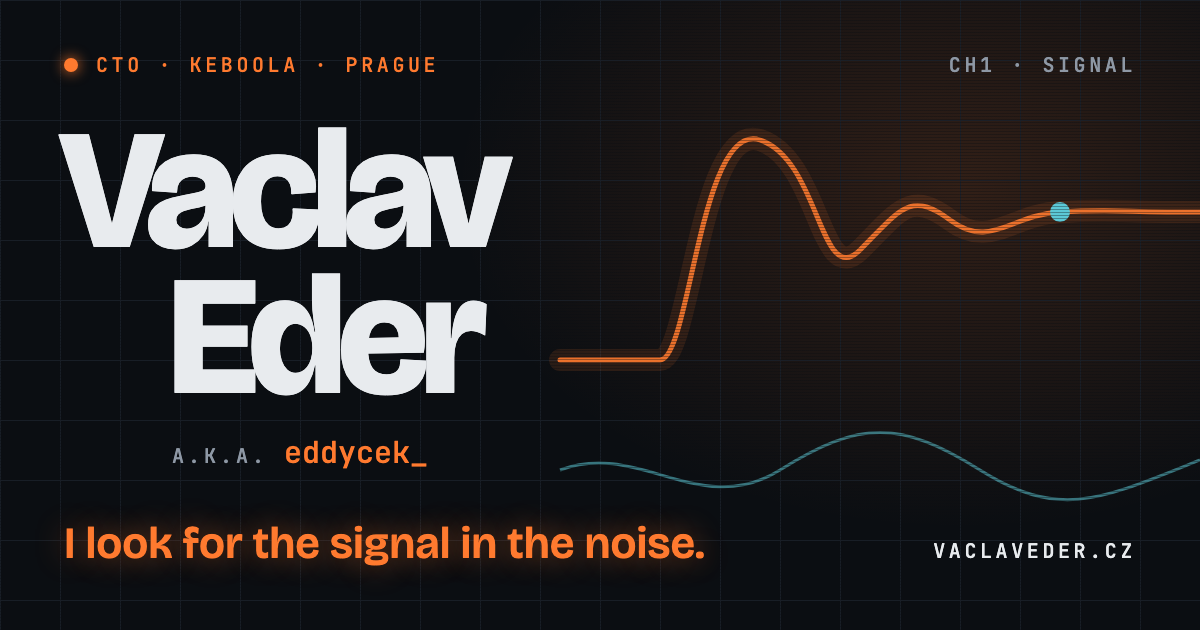
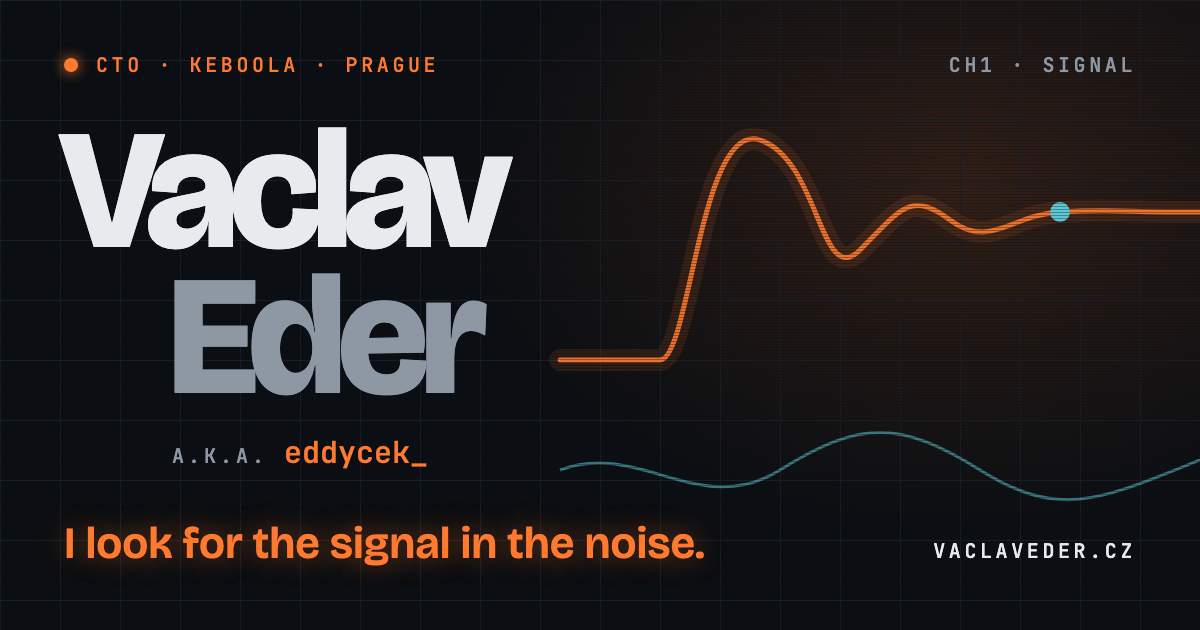
Longer FAILSAFE, Links label, poem always opens at top, readable personal panels, muted Eder, agent footer

Changed region(s): [[0.1233, 0.4222, 0.4317, 0.6333]]

diff --git a/src/scripts/signal/radio.ts b/src/scripts/signal/radio.ts
@@ -35,11 +35,12 @@ function say(text: string, delayMs: number): void {
   window.setTimeout(() => {
     const u = new SpeechSynthesisUtterance(text);
     const voices = synth.getVoices();
-    u.voice = voices.find((v) => /en[-_](US|GB)/i.test(v.lang) && /female|samantha|karen|serena|google/i.test(v.name))
+    u.voice = voices.find((v) => /en[-_]GB/i.test(v.lang) && /female|serena|kate|martha|stephanie|google uk english female/i.test(v.name))
+      ?? voices.find((v) => /en[-_](US|GB|AU)/i.test(v.lang) && /female|samantha|karen|serena|google/i.test(v.name))
       ?? voices.find((v) => /^en/i.test(v.lang)) ?? null;
     u.lang = u.voice?.lang ?? 'en-US';
-    u.rate = 1.02;
-    u.pitch = 1;
+    u.rate = 0.95;
+    u.pitch = 1.05;
     u.volume = 0.9;
     synth.cancel();
     synth.speak(u);

diff --git a/src/scripts/signal/scope.ts b/src/scripts/signal/scope.ts
@@ -53,7 +53,7 @@ export function mountScope(canvas: HTMLCanvasElement): () => void {
   let dmg = 0; // 0..1, lost signal integrity
   let failsafe = 0; // seconds left in FAILSAFE
   let failCount = 0;
-  const FAIL_T = 3.6;
+  const FAIL_T = 6.5;
   const FAIL_LINES = [
     'cut the wires, no fucking choice.',
     'no escape, just broken glass.',
@@ -144,7 +144,7 @@ export function mountScope(canvas: HTMLCanvasElement): () => void {
       failsafe = FAIL_T;
       failCount++;
       canvas.parentElement?.classList.add('is-failsafe');
-      window.dispatchEvent(new CustomEvent('signal:failsafe', { detail: 1500 }));
+      window.dispatchEvent(new CustomEvent('signal:failsafe', { detail: 2400 }));
       telemetryLost();
     }
     const px = e.clientX - r.left;

diff --git a/src/content/en.ts b/src/content/en.ts
@@ -261,6 +261,6 @@ export const content: SiteContent = {
     ],
   },
   footer: {
-    note: 'Built with love in Prague. No cookies, no tracking.',
+    note: 'Shipped with love from Prague; agents wrote the code, I did the review. No cookies, no tracking.',
   },
 };

diff --git a/src/content/cs.ts b/src/content/cs.ts
@@ -261,6 +261,6 @@ export const content: SiteContent = {
     ],
   },
   footer: {
-    note: 'Postaveno s láskou v Praze. No cookies, no tracking.',
+    note: 'Shipnuto s láskou z Prahy; kód napsali agenti, já dělal review. No cookies, no tracking.',
   },
 };

diff --git a/CLAUDE.md b/CLAUDE.md
@@ -6,7 +6,7 @@ Personal site of Václav "eddycek" Eder. Astro (static), vanilla Canvas animatio
 - All copy lives in `src/content/cs.ts` and `src/content/en.ts` (same shape, `types.ts`). Keep both in sync.
 - `src/content/slayer.ts` holds the full poem (verbatim, never edit wording).
 - Contact details and social links: `src/content/contact.ts`.
-- Style rules for copy: no em dash; use semicolons instead of colons in prose; "Dark Factory" capitalised; "kontent" instead of "obsah"; "independent" for artists; "MacBook" not "notebook". Czech copy uses ty (tykání, "Napiš mi"), never vy. Use Eddy's anglicisms (business, shipovat, mindset, game changer, scale…). "Music" not "hudba", "Cyber security" not "Security". Hero shows "Vaclav" without diacritics; meta and JSON-LD keep "Václav". Never mention moving to Prague. Hero: "Vaclav" and "Eder" both solid and light, same style. Never put game or film artwork or a recognisable character likeness on the site.
+- Style rules for copy: no em dash; use semicolons instead of colons in prose; "Dark Factory" capitalised; "kontent" instead of "obsah"; "independent" for artists; "MacBook" not "notebook". Czech copy uses ty (tykání, "Napiš mi"), never vy. Use Eddy's anglicisms (business, shipovat, mindset, game changer, scale…). "Music" not "hudba", "Cyber security" not "Security". Hero shows "Vaclav" without diacritics; meta and JSON-LD keep "Václav". Never mention moving to Prague. Hero: "Vaclav" solid light, "Eder" solid but muted (var(--c-muted)), no stripes. Never put game or film artwork or a recognisable character likeness on the site.
 
 ## Workflow for every change
 1. `npm run dev` for live work (http://localhost:4321).
